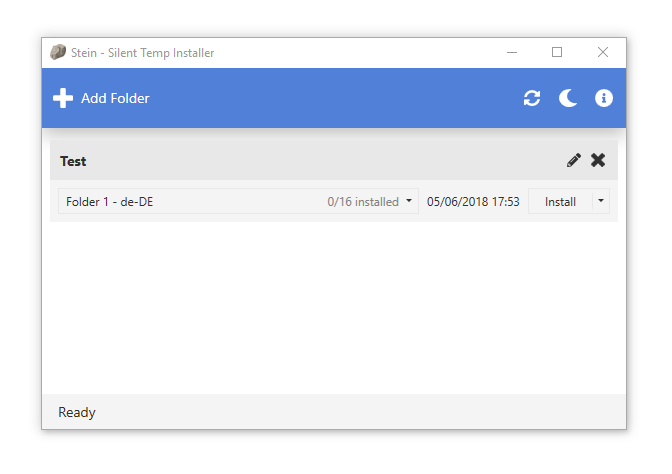
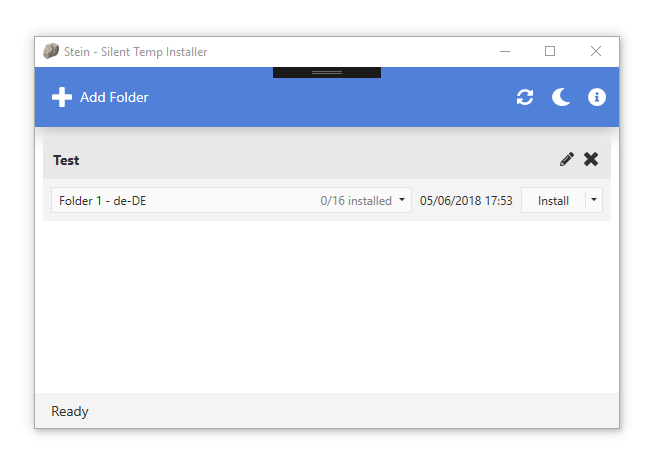
Fix selection color in toolbar and set layer on groupbox

diff --git a/Stein.Views/MainWindowView.xaml b/Stein.Views/MainWindowView.xaml
@@ -44,8 +44,7 @@
 
                 <!-- Add Folder button -->
                 <Button Grid.Column="0"
-                        Foreground="{DynamicResource {x:Static adonisUi:Brushes.AccentForegroundBrush}}"
-                        Style="{DynamicResource {x:Static adonisUi:Styles.ToolbarButton}}"
+                        Style="{DynamicResource {x:Static adonisUi:Styles.AccentToolbarButton}}"
                         Command="{Binding AddApplicationCommand}">
                     <StackPanel Orientation="Horizontal">
                         <ContentControl ContentTemplate="{StaticResource AddIconVariant}"
@@ -63,9 +62,8 @@
                         Width="28"
                         Height="28"
                         Padding="2"
-                        Foreground="{DynamicResource {x:Static adonisUi:Brushes.AccentForegroundBrush}}"
                         DataContext="{Binding RefreshApplicationsCommand}"
-                        Style="{DynamicResource {x:Static adonisUi:Styles.ToolbarButton}}"
+                        Style="{DynamicResource {x:Static adonisUi:Styles.AccentToolbarButton}}"
                         Command="{Binding}">
                     <Button.Content>
                         <ContentControl Width="16"
@@ -116,8 +114,7 @@
                         Width="28"
                         Height="28"
                         Padding="4"
-                        Foreground="{DynamicResource {x:Static adonisUi:Brushes.AccentForegroundBrush}}"
-                        Style="{DynamicResource {x:Static adonisUi:Styles.ToolbarButton}}"
+                        Style="{DynamicResource {x:Static adonisUi:Styles.AccentToolbarButton}}"
                         Command="{Binding ChangeThemeCommand}">
                     <Button.ContentTemplate>
                         <MultiBinding Converter="{steinconverters:IntToNthValueConverter}">
@@ -133,9 +130,8 @@
                         Width="28"
                         Height="28"
                         Padding="4"
-                        Foreground="{DynamicResource {x:Static adonisUi:Brushes.AccentForegroundBrush}}"
                         ContentTemplate="{StaticResource InfoIconVariant}"
-                        Style="{DynamicResource {x:Static adonisUi:Styles.ToolbarButton}}"
+                        Style="{DynamicResource {x:Static adonisUi:Styles.AccentToolbarButton}}"
                         Command="{Binding ShowInfoDialogCommand}"/>
             </Grid>
         </Grid>

diff --git a/Stein.Views/ApplicationView.xaml b/Stein.Views/ApplicationView.xaml
@@ -8,6 +8,7 @@
              xmlns:converters="clr-namespace:NKristek.Wpf.Converters;assembly=NKristek.Wpf.Converters"
              xmlns:localization="clr-namespace:Stein.Localizations;assembly=Stein.Localizations"
              xmlns:viewModels="clr-namespace:Stein.ViewModels;assembly=Stein.ViewModels"
+             xmlns:adonisExtensions="clr-namespace:AdonisUI.Extensions;assembly=AdonisUI"
              mc:Ignorable="d"
              d:DataContext="{d:DesignInstance viewModels:ApplicationViewModel, IsDesignTimeCreatable=True}">
 
@@ -15,7 +16,8 @@
               Margin="0,4" 
               SnapsToDevicePixels="True"
               HorizontalAlignment="Stretch"
-              VerticalAlignment="Stretch">
+              VerticalAlignment="Stretch"
+              adonisExtensions:LayerExtension.Layer="1">
         <GroupBox.Header>
             <Grid Grid.Column="7">
                 <Grid.ColumnDefinitions>
